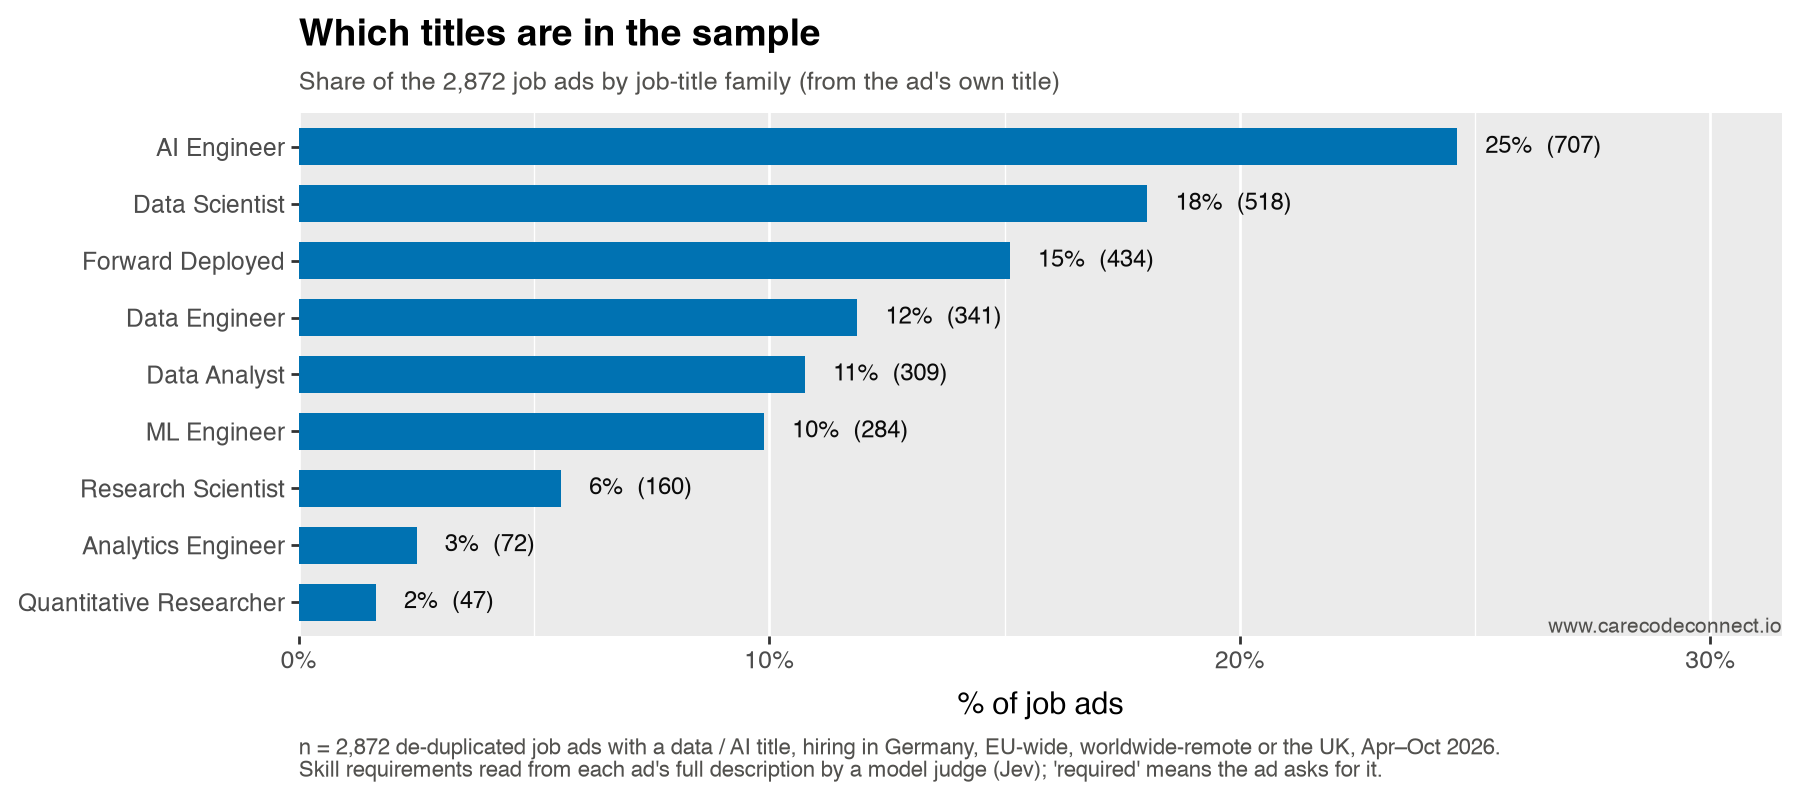
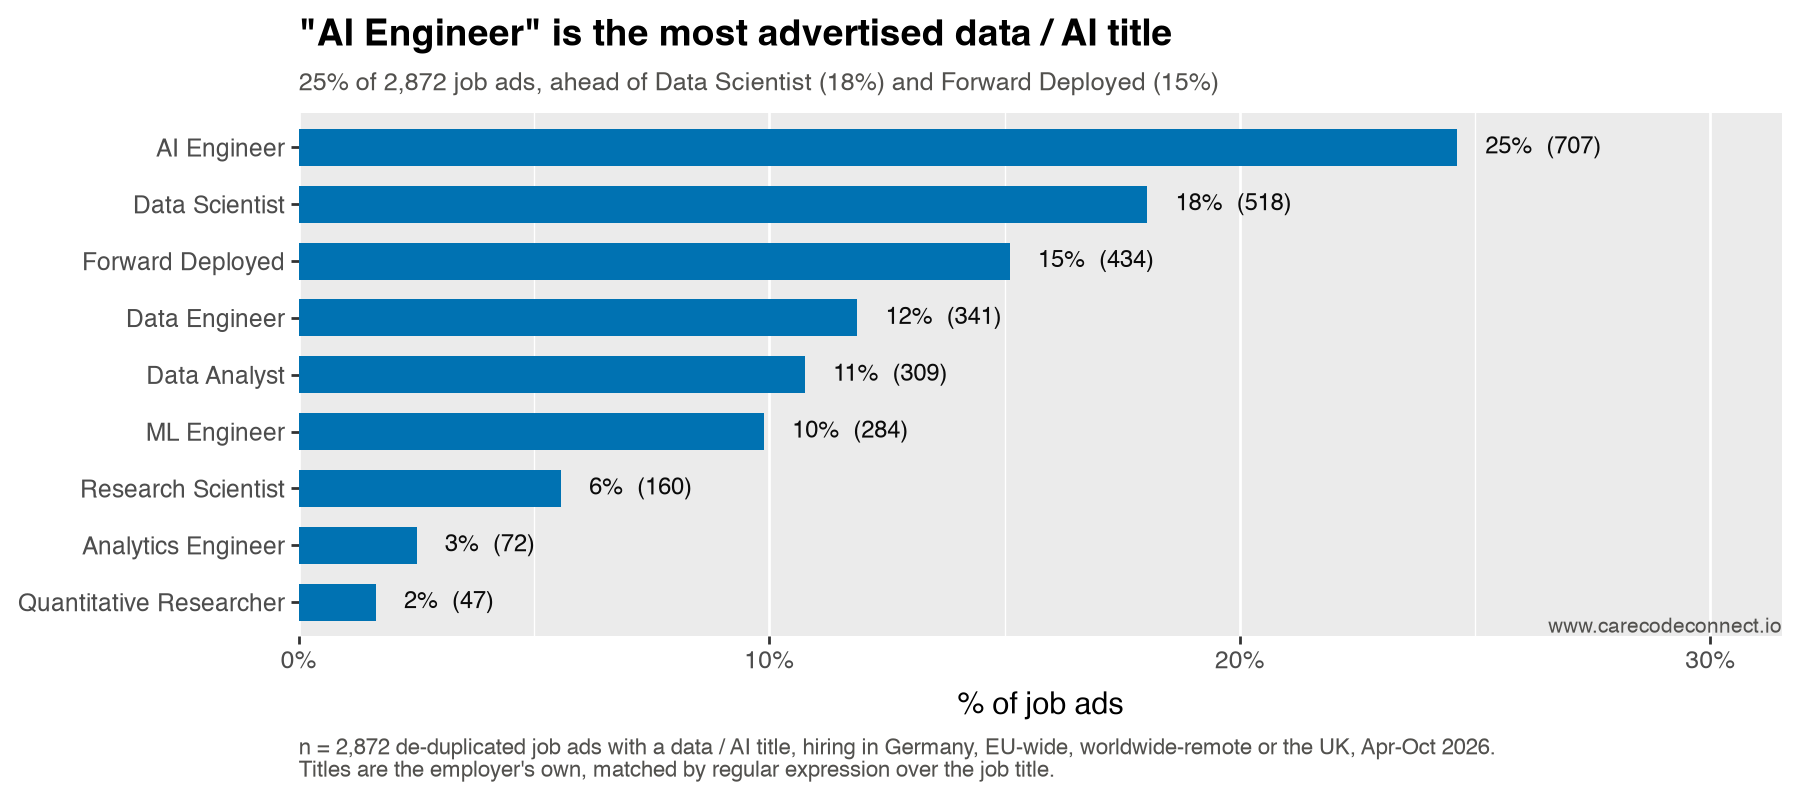
ai-data-job-skills: the sample chart headlines its finding
"Which titles are in the sample" described the axis, not the result. A reader
meeting the chart on its own — and it is the first figure under The sample —
learnt that titles had been counted, not which one dominates. It now reads
'"AI Engineer" is the most advertised data / AI title', with the ranking as
the subtitle: 25% of 2,872 job ads, ahead of Data Scientist (18%) and Forward
Deployed (15%).

Title and subtitle are computed from the data, not typed, so the claim
follows the ranking if it ever changes.

The chart is self-contained now, so the sentence under it no longer repeats
the same three figures — it keeps what the chart cannot say: the two rarest
titles, and that "AI Engineer" includes variants such as "Senior Software
Engineer – AI". The method note about titles being the employer's own moved
into the chart's own caption, which wraps, after the first attempt ran the
subtitle off the right edge.

verify_against_csv.py: 47 figures, all matching.

Claude-Session: https://claude.ai/code/session_012H3sqptE4XJ8CjCQBEBXTM

diff --git a/docs/projects/ai-data-job-skills/index.html b/docs/projects/ai-data-job-skills/index.html
@@ -393,7 +393,7 @@ ul.task-list li input[type="checkbox"] {
 <section id="the-sample" class="level2">
 <h2 class="anchored" data-anchor-id="the-sample">The sample</h2>
 <p><img src="images/roles.png" class="img-fluid" alt="Bar chart of the nine job-title families as a share of the job ads"></p>
-<p>“AI Engineer” is the most advertised title at 25%, then Data Scientist (18%) and Data Engineer (12%). The rarest are Analytics Engineer (3%) and Quantitative Researcher (2%). Titles come from the job ad itself, by regular expression over its title.</p>
+<p>The rarest titles are Analytics Engineer (3%) and Quantitative Researcher (2%); “AI Engineer” includes variants such as “Senior Software Engineer – AI”.</p>
 <div class="callout callout-style-simple callout-note callout-titled">
 <div class="callout-header d-flex align-content-center collapsed" data-bs-toggle="collapse" data-bs-target=".callout-1-contents" aria-controls="callout-1" aria-expanded="false" aria-label="Toggle callout">
 <div class="callout-icon-container">

diff --git a/projects/ai-data-job-skills/build_figures.py b/projects/ai-data-job-skills/build_figures.py
@@ -58,11 +58,20 @@ def roles() -> None:
     c["pct"] = 100 * c["n"] / N
     c["lab"] = [f"{p:.0f}%  ({n:,})" for p, n in zip(c["pct"], c["n"])]
     c["family"] = pd.Categorical(c["family"], categories=list(c["family"]))
+    _rank = c.sort_values("n", ascending=False).reset_index(drop=True)
+    (_t1, _p1), (_t2, _p2), (_t3, _p3) = [(_rank.family[i], _rank.pct[i]) for i in range(3)]
     p = (ggplot(c, aes("family", "pct")) + geom_col(width=0.65, fill=BLUE)
          + geom_text(aes(label="lab"), ha="left", nudge_y=0.6, size=8.5, color=INK)
          + coord_flip() + scale_y_continuous(labels=lambda v: [f"{x:.0f}%" for x in v], expand=(0, 0, 0.25, 0))
-         + labs(title="Which titles are in the sample", subtitle=f"Share of the {N:,} job ads by job-title family (from the ad's own title)",
-                caption=CAPTION, tag=SOURCE, x="", y="% of job ads") + BASE + theme(figure_size=(9, 4)) + src_at("bottomright"))
+         # The headline is the finding, not the axis: a reader meeting this chart
+         # on its own should learn which title dominates, not just that titles were
+         # counted. Computed, so it follows the data if the ranking ever changes.
+         + labs(title=f'"{_t1}" is the most advertised data / AI title',
+                subtitle=f"{_p1:.0f}% of {N:,} job ads, ahead of {_t2} ({_p2:.0f}%) and {_t3} ({_p3:.0f}%)",
+                caption="n = {:,} de-duplicated job ads with a data / AI title, hiring in Germany, EU-wide, "
+                        "worldwide-remote or the UK, Apr-Oct 2026.\nTitles are the employer's own, matched by "
+                        "regular expression over the job title.".format(N),
+                tag=SOURCE, x="", y="% of job ads") + BASE + theme(figure_size=(9, 4)) + src_at("bottomright"))
     p.save(IMG / "roles.png", dpi=200, verbose=False)
 
 
